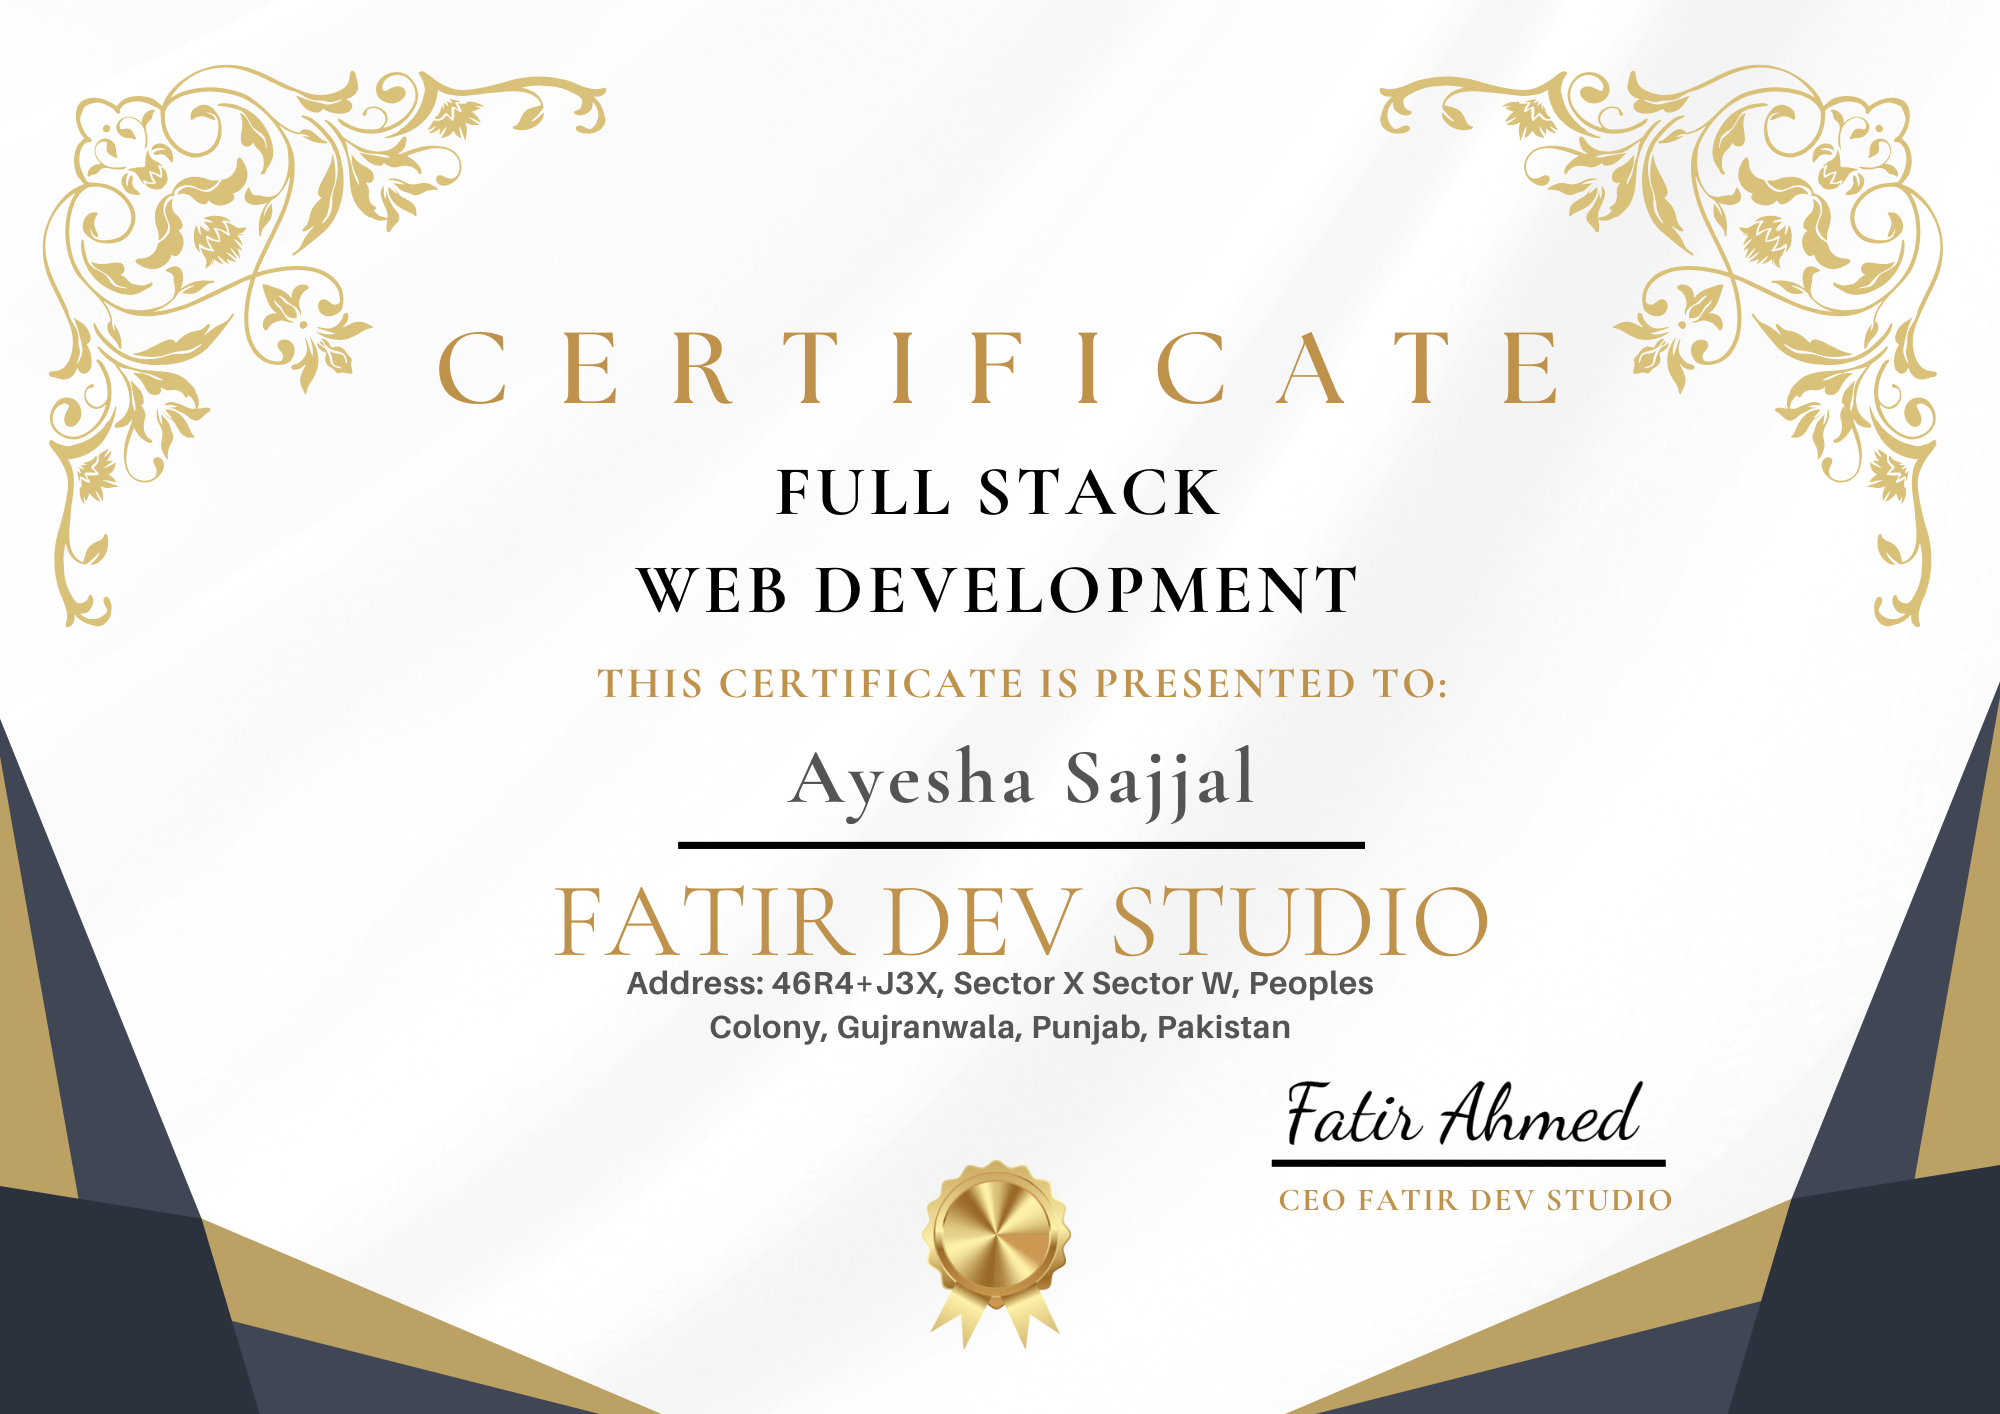
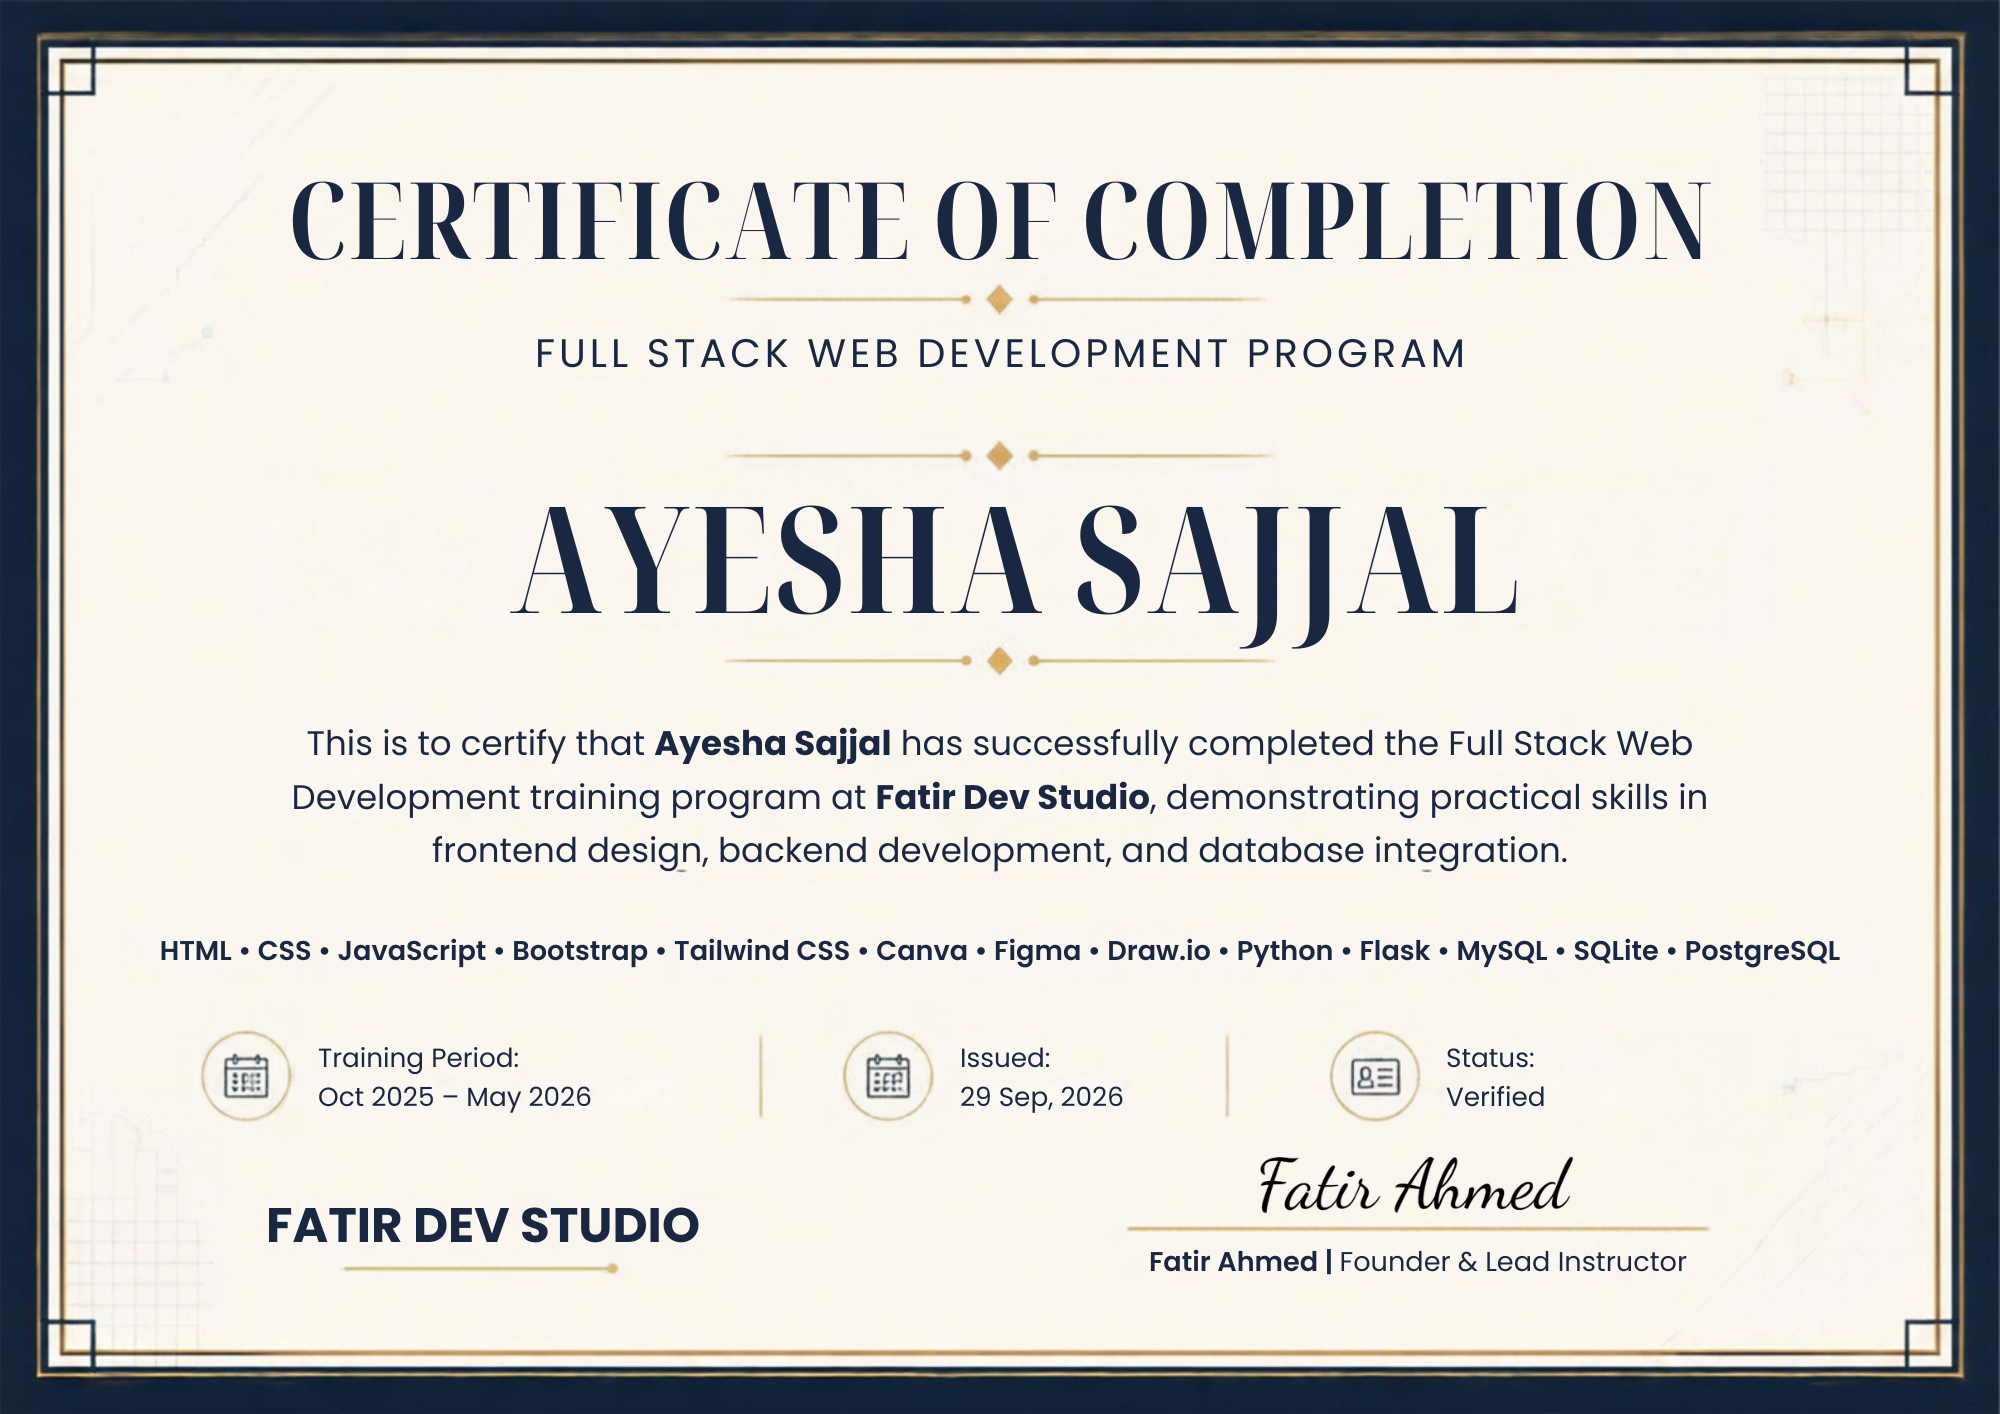
update website

diff --git a/index.html b/index.html
@@ -2673,8 +2673,8 @@ Please process admission.`;
           },
           {
             name: "ANAYA NOOR",
-            course: "Web Design and Python Programming",
-            duration: "10 Months",
+            course: "Python Programming",
+            duration: "03 Months",
             status: "Verified",
             file: "assets/img/certificates/ANAYA.png",
           },
